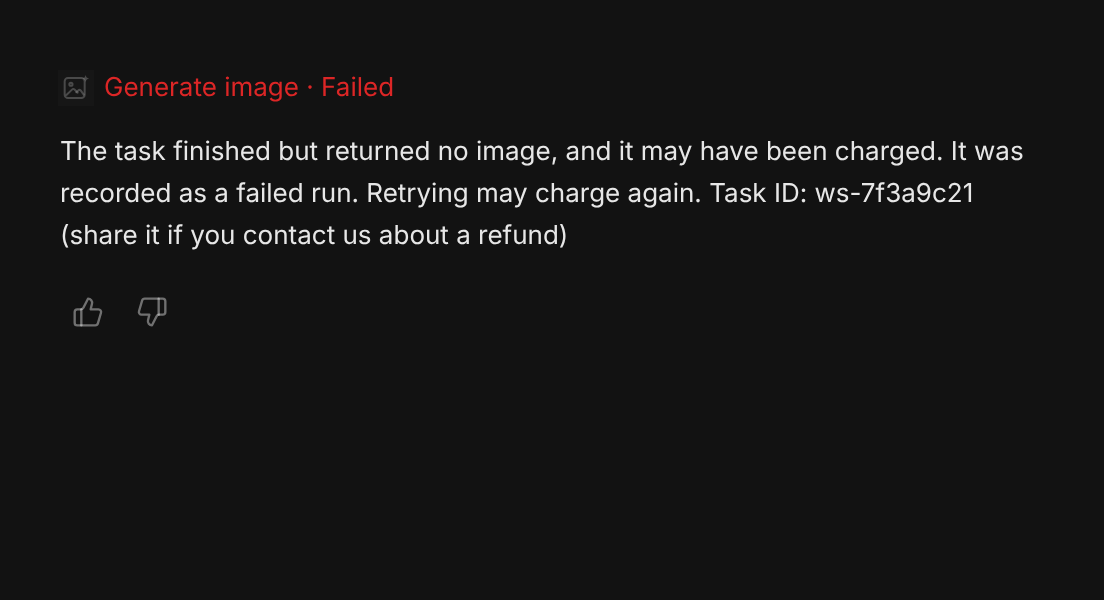
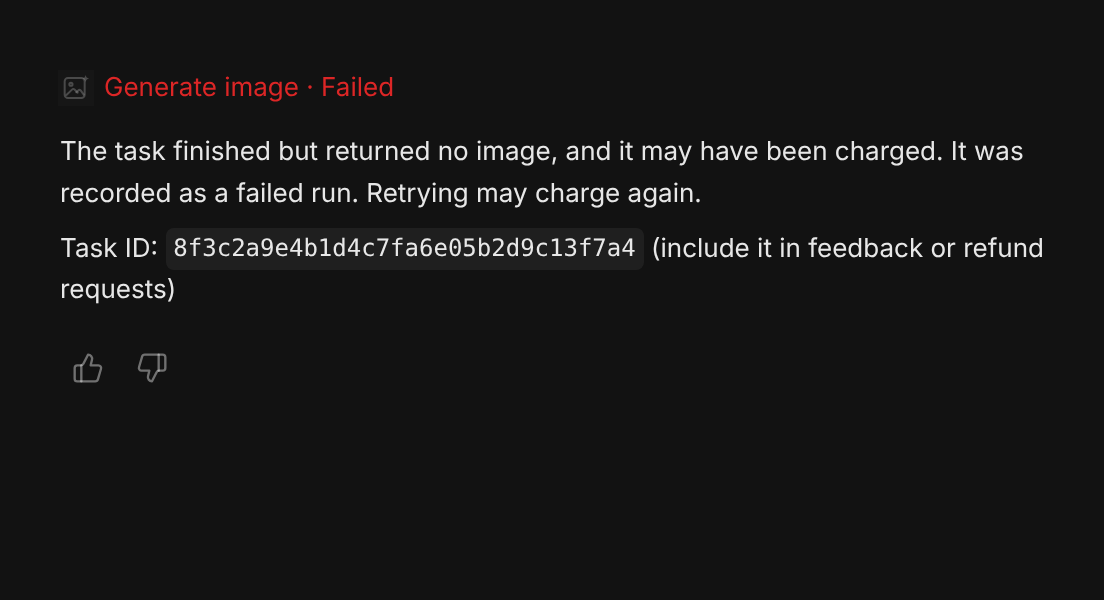
#715 design: task ID on its own line as nowrap copyable code (title=full id), en taskRef copy, realistic 32-hex mock ids + long-id shots

diff --git a/src/shapes/GeneratorShape.tsx b/src/shapes/GeneratorShape.tsx
@@ -1,3 +1,4 @@
+import { Fragment, type ReactNode } from 'react'
 import { TOP_UP_URL } from '../wsErrors'
 import {
   BaseBoxShapeUtil,
@@ -45,7 +46,13 @@ export type GeneratorShape = TLShape<typeof GENERATOR>
 const versions = createShapePropsMigrationIds(GENERATOR, { AddDuration: 1, AddOptions: 2 })
 
 /** #163: the top-up URL in the insufficient-balance copy is clickable; same text, no new wording. */
-export function withTopUpLink(text: string) {
+export function withTopUpLink(text: string): ReactNode {
+  // #715 design: a `task id` renders as a nowrap, copyable <code> (full id in title); its own line via pre-line CSS
+  if (/`[^`\n]+`/.test(text)) return <>{text.split(/(`[^`\n]+`)/).map((p, k) => (k % 2 ? <code key={k} title={p.slice(1, -1)}>{p.slice(1, -1)}</code> : <Fragment key={k}>{linkTopUp(p)}</Fragment>))}</>
+  return linkTopUp(text)
+}
+
+function linkTopUp(text: string): ReactNode {
   const i = text.indexOf(TOP_UP_URL)
   if (i < 0) return text
   return <>{text.slice(0, i)}<a href={TOP_UP_URL} target="_blank" rel="noreferrer" onPointerDown={(e) => e.stopPropagation()}>{TOP_UP_URL}</a>{text.slice(i + TOP_UP_URL.length)}</>

diff --git a/src/styles/canvas.css b/src/styles/canvas.css
@@ -10,6 +10,9 @@
 .ca-gen-card { position: relative; }
 .ca-gen-card__error a { color: inherit; text-decoration: underline; pointer-events: all; cursor: pointer; }
 .ca-gen-card__error { position: absolute; left: 8px; right: 8px; top: 8px; padding: 6px 12px; border-radius: 8px; background: var(--ca-error-bg); color: var(--ca-error-text); font-size: 13px; overflow-wrap: anywhere; }
+/* #715 design: task-id line on its own line; the id never breaks mid-string, ellipsis if wider than the card (full id in title) */
+.ca-gen-card__error { white-space: pre-line; }
+.ca-gen-card__error code { display: inline-block; max-width: 100%; vertical-align: bottom; white-space: nowrap; word-break: keep-all; overflow-wrap: normal; overflow: hidden; text-overflow: ellipsis; user-select: text; pointer-events: all; cursor: text; font: inherit; }
 .ca-gen-card__icon svg { width: 100%; height: 100%; }
 /* #356 canvas Generating frame — single flat grey + pill (reference design 01 / 04e); no shimmer/ring/nested stroke */
 .ca-gen-card[data-running],

diff --git a/src/styles/overlays.css b/src/styles/overlays.css
@@ -434,6 +434,8 @@
 .ca-md ul, .ca-md ol { padding-left: 20px; }
 .ca-md .ca-md__h { font-weight: 600; }
 .ca-md code { padding: 1px 4px; border-radius: 4px; background: var(--ca-field); font-size: 12px; }
+/* #715 design: inline code (task ids) never breaks at hyphens/mid-string; too long -> whole token moves down, then ellipsis (full text in title, still copyable) */
+.ca-md code { display: inline-block; max-width: 100%; box-sizing: border-box; vertical-align: bottom; white-space: nowrap; word-break: keep-all; overflow: hidden; text-overflow: ellipsis; user-select: text; }
 .ca-md table { border-collapse: collapse; font-size: 12px; }
 .ca-md th, .ca-md td { padding: 4px 8px; border: var(--ca-border-w) solid var(--ca-border); text-align: left; vertical-align: top; }
 .ca-md pre { margin: 0; padding: 8px 10px; border-radius: 8px; background: var(--ca-field); font-size: 12px; overflow: auto; }

diff --git a/src/wsErrors.ts b/src/wsErrors.ts
@@ -13,7 +13,7 @@ export function wsErrorText(kind: unknown, charged?: unknown, taskId?: unknown):
   if (kind === 'timeout' || kind === 'noOutput' || kind === 'noTaskId') {
     const base = typeof charged === 'number' && Number.isFinite(charged) ? t(`wsErr.${kind}`, fmtUsd(charged)) : t(`wsErr.${kind}NoAmount`)
     // #712: when a task id was obtained (timeout / noOutput) show it for feedback or refunds; noTaskId has none
-    return kind !== 'noTaskId' && typeof taskId === 'string' && taskId.trim() ? `${base} ${t('wsErr.taskRef', taskId.trim())}` : base
+    return kind !== 'noTaskId' && typeof taskId === 'string' && taskId.trim() ? `${base}\n\n${t('wsErr.taskRef', `\`${taskId.trim()}\``)}` : base  // #715 design: own line; id as `code` (nowrap, copyable)
   }
   return kind === 'insufficientCredit' ? t('wsErr.insufficientCredit', TOP_UP_URL) : t(`wsErr.${kind}`)
 }

diff --git a/src/ui/Markdown.tsx b/src/ui/Markdown.tsx
@@ -7,7 +7,7 @@ const INLINE = /(\*\*[^*]+\*\*|`[^`]+`|\[[^\]]+\]\([^)\s]+\))/g
 function inline(text: string): ReactNode[] {
   return text.split(INLINE).map((part, i) => {
     if (part.startsWith('**') && part.endsWith('**') && part.length > 4) return <strong key={i}>{part.slice(2, -2)}</strong>
-    if (part.startsWith('`') && part.endsWith('`') && part.length > 2) return <code key={i}>{part.slice(1, -1)}</code>
+    if (part.startsWith('`') && part.endsWith('`') && part.length > 2) return <code key={i} title={part.slice(1, -1)}>{part.slice(1, -1)}</code>
     const link = /^\[([^\]]+)\]\(([^)\s]+)\)$/.exec(part)
     if (link) return <a key={i} href={link[2]} target="_blank" rel="noreferrer">{link[1]}</a>
     return part

diff --git a/tests/test_e2e_failure_cost_712.py b/tests/test_e2e_failure_cost_712.py
@@ -44,6 +44,7 @@ def bundle(tmp_path_factory):
 async def test_712_charged_no_output_shows_reason_and_amount(ws, bundle, lang, theme):  # noqa: F811
     ws["no_outputs"] = True
     ws["prices"][MODEL] = 0.32
+    ws["task_id"] = LONG_ID  # #715 design: realistic 32-hex WaveSpeed-like id, not task1
     task = await wavespeed.submit({"feature": "text_to_video", "model": MODEL, "prompt": "x", "duration": 5, "confirmed": True})
     hist = await wavespeed.poll(task)
     info = hist[f"ws:{task}"]["status"]["messages"][0][1]
@@ -88,10 +89,22 @@ async def _shot(bundle, lang, theme, kind, charged, name, task=None):
         await page.wait_for_function("window.__ready")
         await page.wait_for_timeout(200)
         body = await page.locator("[data-testid=ws-failure]").inner_text()
+        if task:  # #715 design: id never wraps mid-string, stays selectable, full id in title
+            st = await page.evaluate("""() => [...document.querySelectorAll('.ca-md code')].map(c => {
+                const s = getComputedStyle(c); return [c.textContent, c.title, s.whiteSpace, s.userSelect, c.getClientRects().length] })""")
+            assert [x[0] for x in st].count(task) >= 1, st
+            for txt, title, ws_, sel, rects in st:
+                if txt == task:
+                    assert title == task and ws_ == "nowrap" and sel != "none" and rects == 1, (txt, ws_, sel, rects)
         SHOT_DIR.mkdir(parents=True, exist_ok=True)
         await page.locator(".ca-root").screenshot(path=str(SHOT_DIR / f"{name}-{lang}-{theme}.png"))
         await b.close()
         return body
+
+
+# #715 design: realistic ids (WaveSpeed ids are 32 hex); XLONG overflows the card -> ellipsis, full id in title
+LONG_ID = "8f3c2a9e4b1d4c7fa6e05b2d9c13f7a4"
+XLONG_ID = "8f3c2a9e4b1d4c7fa6e05b2d9c13f7a4-retry-2-0b6e91d3c5a84f27"
 
 
 # (kind, charged, file stem, zh text, en text); amounts are the mock quote, None = amount unknown
@@ -101,6 +114,7 @@ CASES = [
     ("noTaskId", None, "failure-notaskid-noamount", "无法取回结果，可能已扣费。", "cannot be fetched, and it may have been charged."),
     ("timeout", 0.32, "failure-timeout", "任务超时，可能已扣费约 $0.32。重试前请注意可能重复扣费。", "may have been charged about $0.32. Retrying may charge again."),
     ("timeout", None, "failure-timeout-noamount", "任务超时，可能已扣费。重试前请注意可能重复扣费。", "may have been charged. Retrying may charge again."),
+    ("timeout", 0.32, "failure-timeout-longid", "任务超时，可能已扣费约 $0.32。重试前请注意可能重复扣费。", "may have been charged about $0.32. Retrying may charge again."),
     ("unregisteredModel", None, "failure-unregistered", "所选模型暂不可用，未发送、未扣费", "isn't available right now. Nothing was sent or charged"),
 ]
 
@@ -116,10 +130,10 @@ async def test_712_failure_kinds_shown(ws, bundle, lang, theme, kind, charged, s
             await wavespeed.submit({"feature": "text_to_video", "model": MODEL, "prompt": "x", "duration": 5, "confirmed": True})
         assert e.value.kind == "noTaskId"
         charged = e.value.charged if charged is not None else None
-    task = "ws-7f3a9c21" if kind in ("timeout", "noOutput") else None  # mock id; noTaskId has none
+    task = (LONG_ID if stem != "failure-timeout-longid" else XLONG_ID) if kind in ("timeout", "noOutput") else None  # noTaskId has none
     body = await _shot(bundle, lang, theme, kind, charged, stem, task)
     if task:
-        assert (f"任务编号：{task}（反馈或退款时请提供）" if lang == "zh" else f"Task ID: {task} (share it if you contact us about a refund)") in body
+        assert (f"\n任务编号：{task}（反馈或退款时请提供）" if lang == "zh" else f"\nTask ID: {task} (include it in feedback or refund requests)") in body  # own line, no stray space
     else:
         assert "任务编号：" not in body and "Task ID:" not in body
     assert (zh if lang == "zh" else en) in body and not re.search(r"wavespeed|kie|控制台|后台|console|dashboard|生成记录|历史记录|generation history", body, re.I)

diff --git a/tests/test_ws_errors.py b/tests/test_ws_errors.py
@@ -124,9 +124,10 @@ def test_712_no_vendor_or_console_in_wserr_copy():
 
 def test_712_task_id_shown_when_obtained(js):
     zh, en = js["zh"], js["en"]
-    assert zh["timeoutId"].endswith("重试前请注意可能重复扣费。 任务编号：ws-abc123（反馈或退款时请提供）")
-    assert en["timeoutId"].endswith("Retrying may charge again. Task ID: ws-abc123 (share it if you contact us about a refund)")
-    assert "任务编号：ws-abc123" in zh["noOutputId"] and "Task ID: ws-abc123" in en["noOutputId"]
+    assert zh["timeoutId"].endswith("重试前请注意可能重复扣费。\n\n任务编号：`ws-abc123`（反馈或退款时请提供）")  # #715: own line, id as code
+    assert en["timeoutId"].endswith("Retrying may charge again.\n\nTask ID: `ws-abc123` (include it in feedback or refund requests)")
+    assert " 任务编号" not in zh["timeoutId"] and " Task ID" not in en["timeoutId"]  # no stray space before the ref line
+    assert "任务编号：`ws-abc123`" in zh["noOutputId"] and "Task ID: `ws-abc123`" in en["noOutputId"]
     assert "ws-abc123" in zh["bodyId"] and "ws-abc123" in en["bodyId"]
     assert "ws-abc123" not in zh["noTaskIdWithId"] + en["noTaskIdWithId"]  # noTaskId never shows an id
     assert "ws-abc123" not in zh["timeout"] + en["timeout"]  # no id -> no ref line

diff --git a/tests/test_wavespeed.py b/tests/test_wavespeed.py
@@ -117,7 +117,8 @@ async def ws(monkeypatch, fresh_user_dir):
         state["submits"].append((request.match_info["model"], await request.json()))
         if state.get("no_id"):  # #712: charged, but the reply lost its task id
             return web.json_response({"code": 200, "data": {"status": "created"}})
-        return web.json_response({"code": 200, "data": {"id": f"task{len(state['submits'])}", "status": "created"}})
+        tid = state["task_id"] if state.get("task_id") else f"task{len(state['submits'])}"  # #715: realistic long ids on demand
+        return web.json_response({"code": 200, "data": {"id": tid, "status": "created"}})
 
     async def result(request):
         state["polls"] += 1
